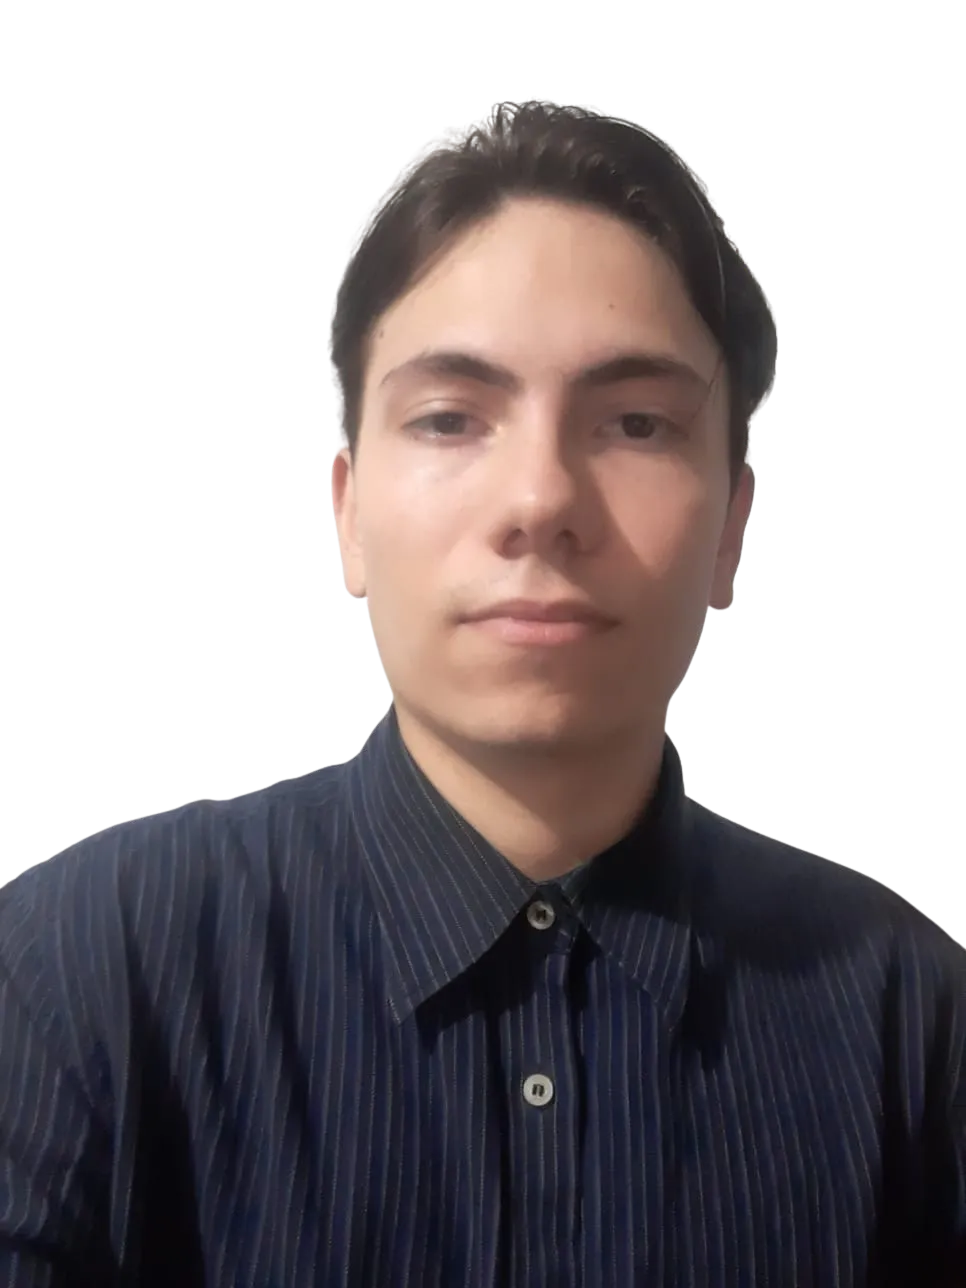
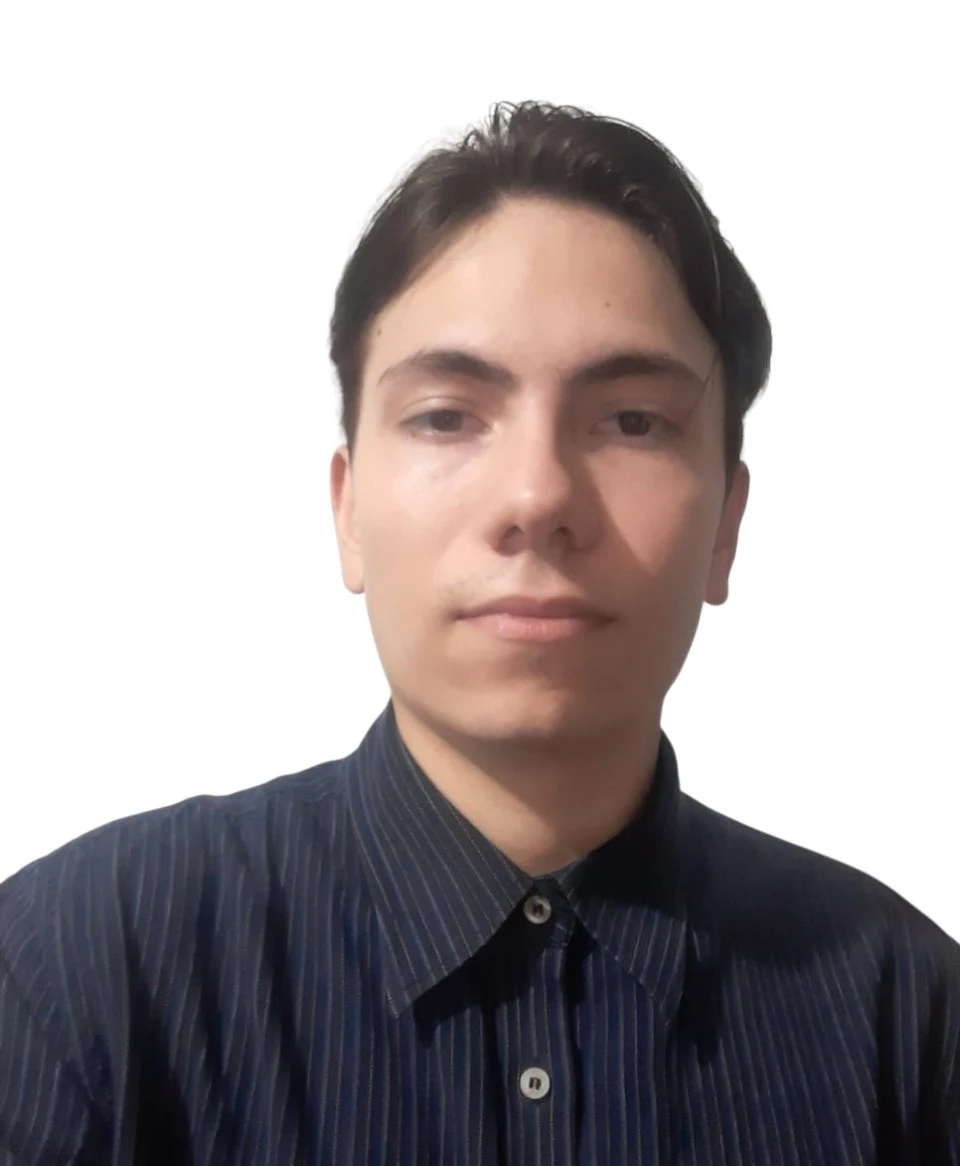
Changing styles for front-end

diff --git a/src/scss/mainSectionStyles.scss b/src/scss/mainSectionStyles.scss
@@ -37,12 +37,15 @@ $font-p: 0.82rem;
         align-items: center;
         width: 100%;
         height: 100%;
+        gap: 3rem;
 
         @include tablet() {
             width: 100%;
+            gap: 1rem;
         }
 
         @include mobile(){
+            margin-top: 3rem;
             flex-direction: column;
         }
     
@@ -105,42 +108,38 @@ $font-p: 0.82rem;
     
         .profilePhoto {
             flex: .4;
-            width: 300px;
-            min-width: 300px;
-            aspect-ratio: 3/4;
+            width: 200px;
             margin: 2rem;
             margin-left: 0;
             background-size: cover;
             background-position: center;
-            height: 400px;
-
-            @include tablet() {
-                width: 200px;
-                min-width: 200px;
-                height: 300px;
-            }
-
+            height: 200px;
+            
             @include mobile() {
-                margin: 1rem;
+                width: 100px;
+                height: 100px;
+                margin: 0;
             }
-
+            
             img {
                 object-position: center;
                 object-fit: cover;
-                width: 300px;
-                aspect-ratio: 3/4;
-                min-width: 300px;
-                mask-image: linear-gradient(black 60%, transparent);
+                width: 200px;
+                height: 200px;
+                border-radius: 50%;
+                border: 1px solid $border-color;
+                box-shadow: $background-color 0px 2px 8px 0px;
 
                 @include tablet() {
                     margin: 1rem;
                     margin-left: 0;
                     width: 200px;
-                    min-width: 200px;
                 }
 
                 @include mobile() {
                     margin: 0;
+                    width: 120px;
+                    height: 120px;
                 }
             }
         }

diff --git a/src/index.scss b/src/index.scss
@@ -1,4 +1,4 @@
-$font-large: 2.441rem; // h3
+$font-large: 2.641rem; // h3
 $font-medium: 1.563rem; // h5
 $font-small: 1rem; // p
 $font-smaller: 0.8rem; // small
